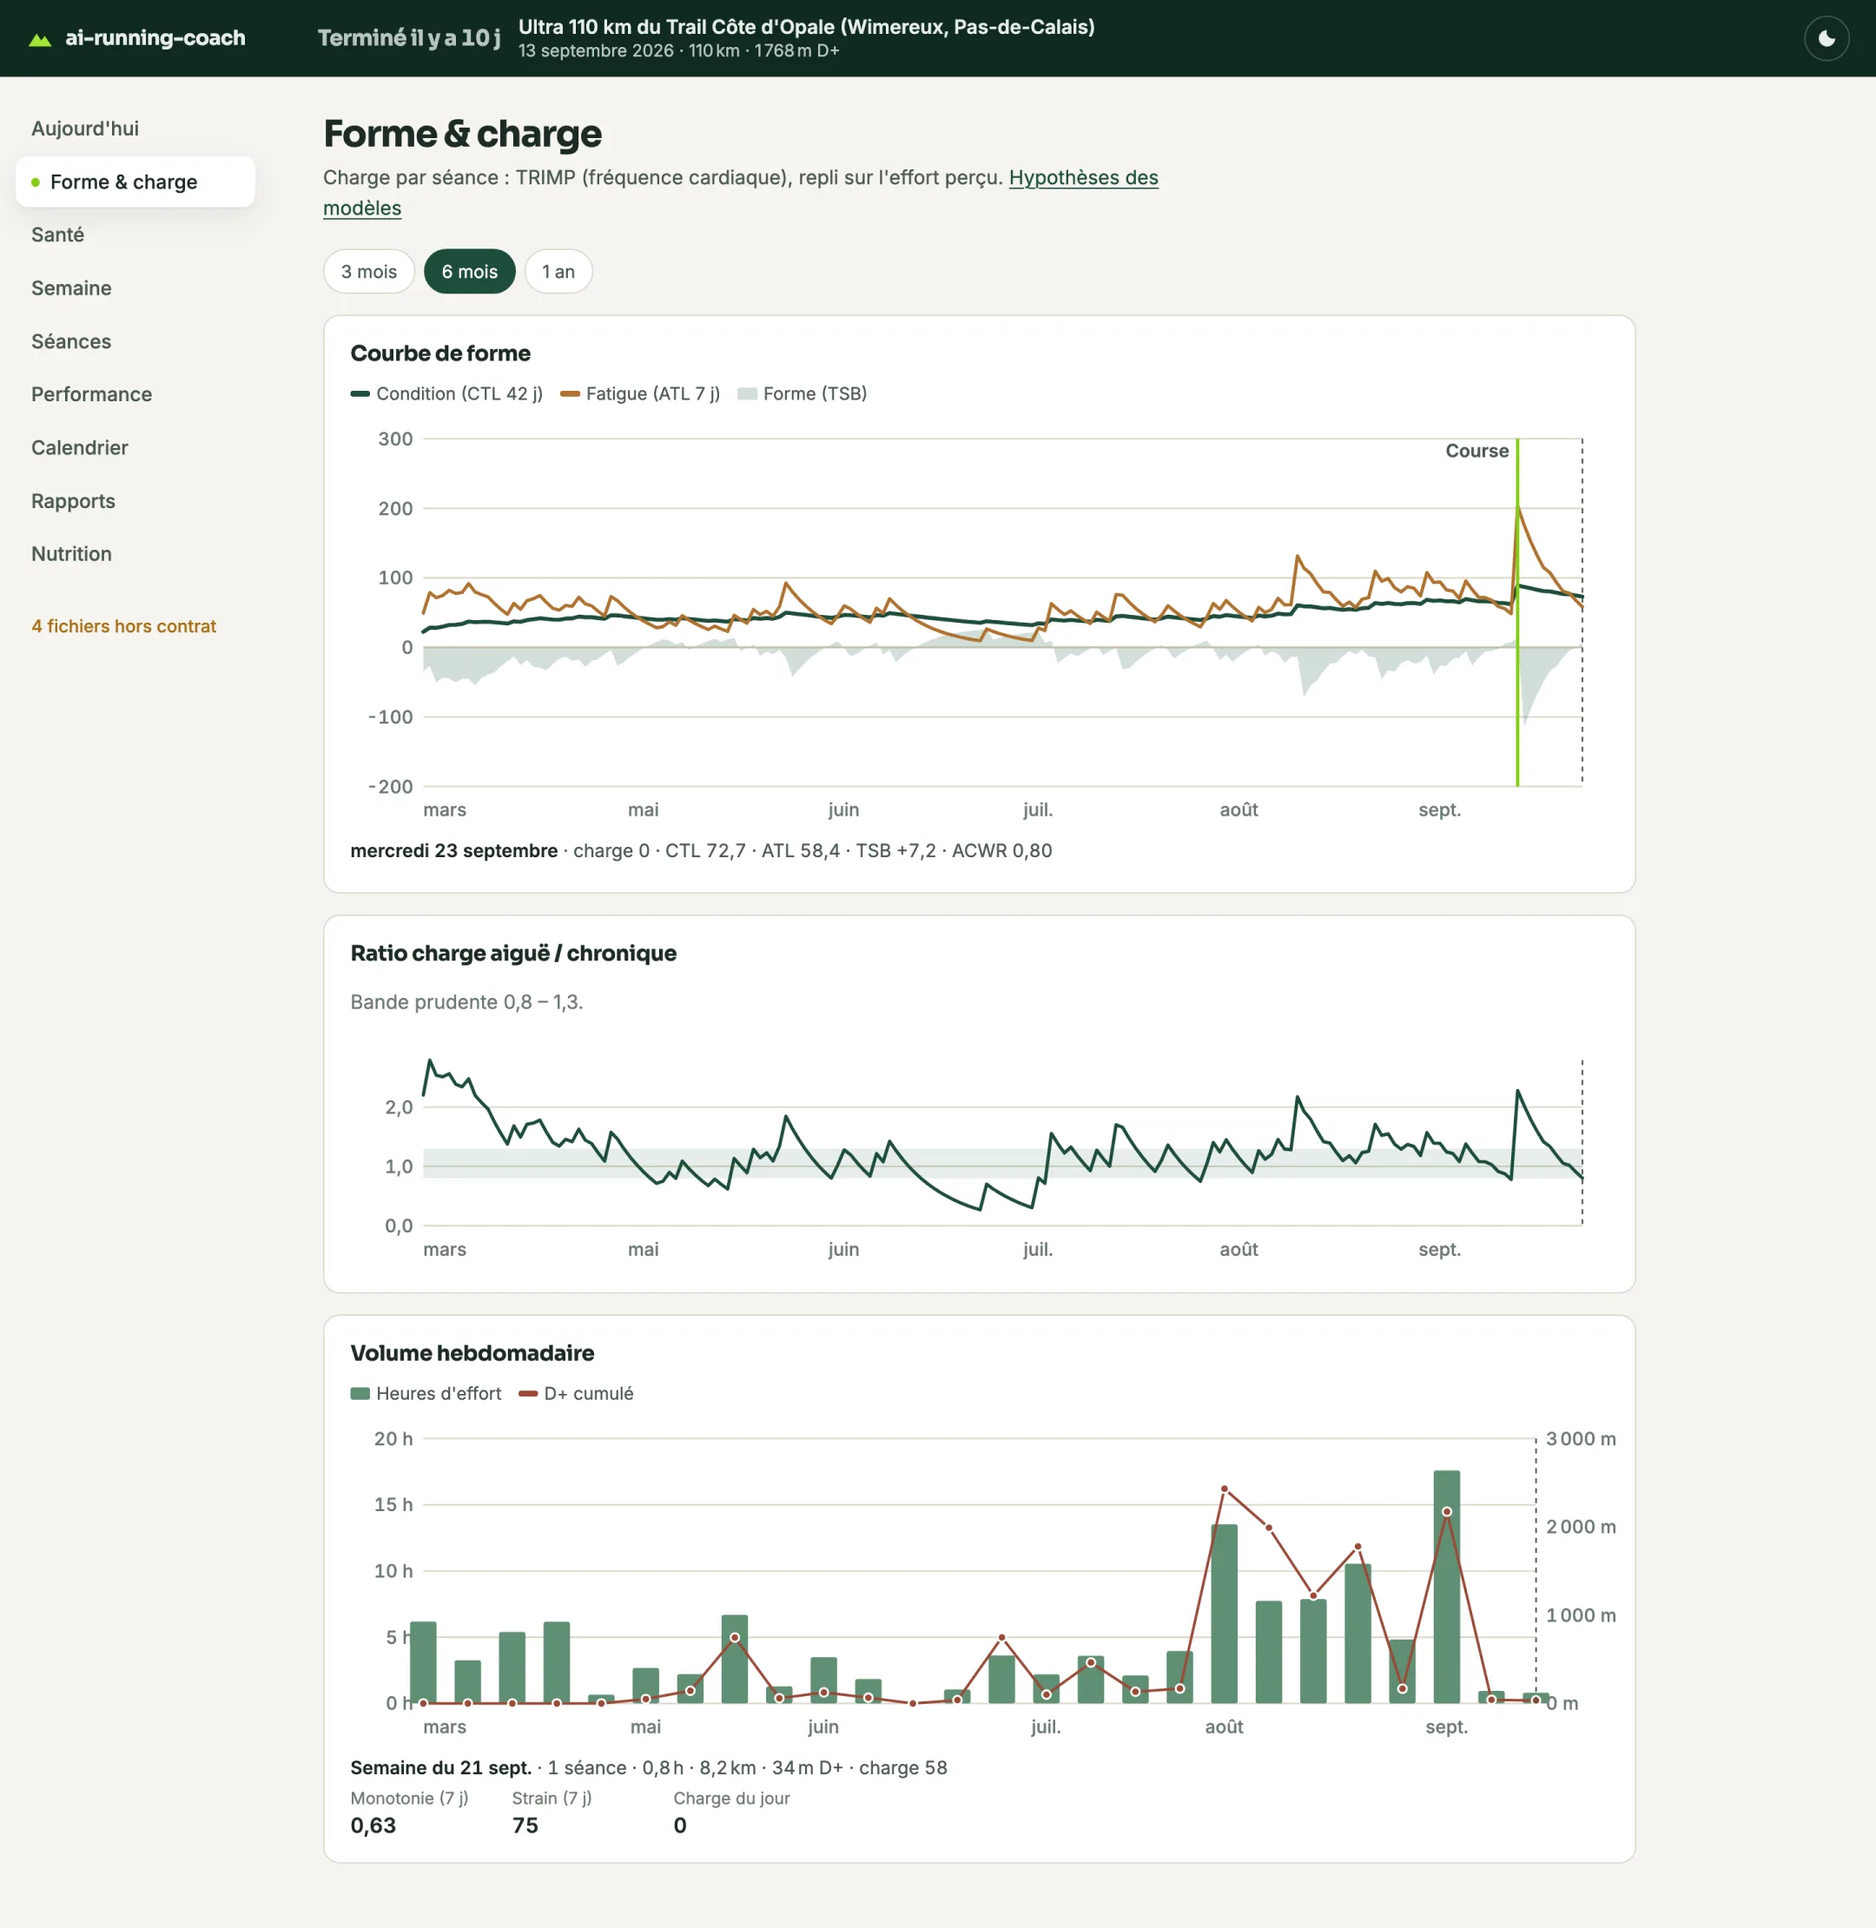
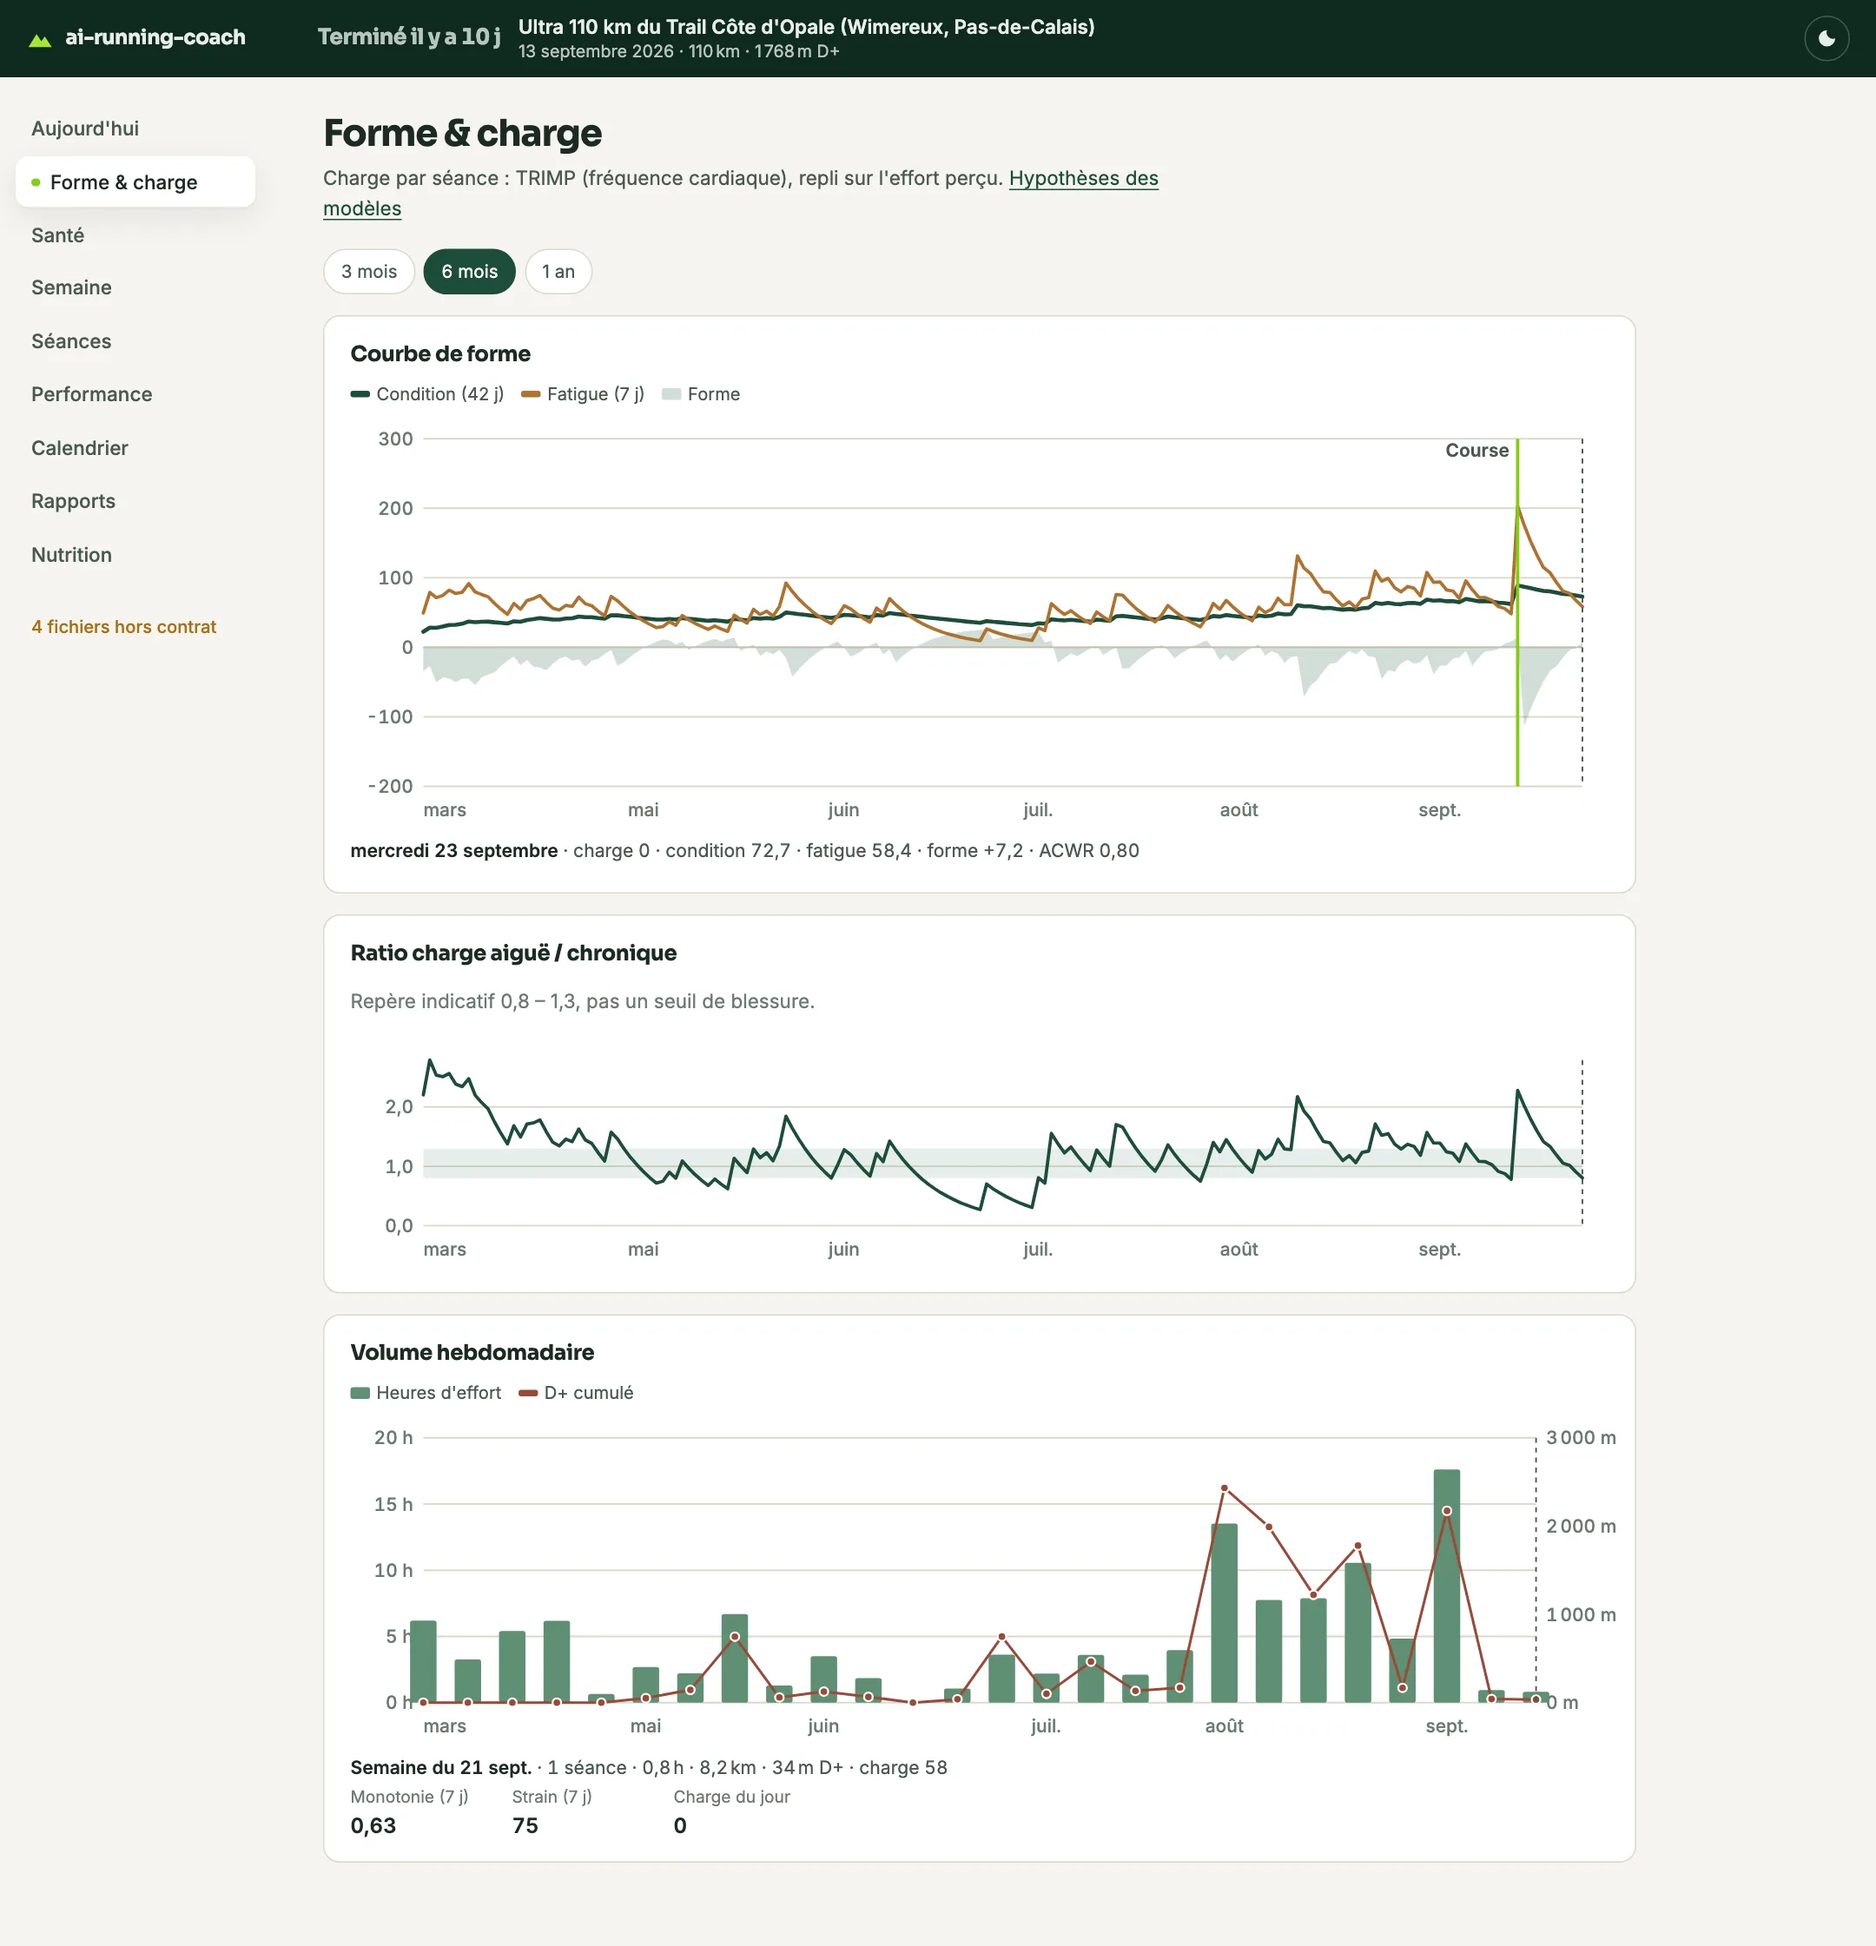
docs: captures du tableau de bord avec les noms génériques
Aujourd'hui, Forme & charge (bureau et téléphone) reprises sur le workspace
réel : condition / fatigue / forme remplacent CTL / ATL / TSB. Le sous-titre
ACWR parle de repère indicatif, comme la documentation.

diff --git a/web/js/app.js b/web/js/app.js
@@ -234,7 +234,7 @@ async function viewForm(params) {
     <section class="band"><h2>Courbe de forme</h2>
       <p class="legend"><span class="legend__item"><span class="key key--fitness"></span>Condition (42 j)</span> <span class="legend__item"><span class="key key--fatigue"></span>Fatigue (7 j)</span> <span class="legend__item"><span class="key key--form"></span>Forme</span></p>
       <div class="chart-host" id="c-form">${chart.svg}</div><p class="readout" id="r-form"></p></section>
-    <section class="band"><h2>Ratio charge aiguë / chronique</h2><p class="muted">Bande prudente ${F.num(form.acwr_safe[0], 1)} – ${F.num(form.acwr_safe[1], 1)}.</p>
+    <section class="band"><h2>Ratio charge aiguë / chronique</h2><p class="muted">Repère indicatif ${F.num(form.acwr_safe[0], 1)} – ${F.num(form.acwr_safe[1], 1)}, pas un seuil de blessure.</p>
       <div class="chart-host" id="c-acwr">${acwr.svg}</div></section>
     <section class="band"><h2>Volume hebdomadaire</h2>
       <p class="legend">${trail ? `<span class="legend__item"><span class="key key--bar"></span>Heures d'effort</span> <span class="legend__item"><span class="key key--dplus"></span>D+ cumulé</span>` : `<span class="legend__item"><span class="key key--bar"></span>Kilomètres</span>`}</p>
